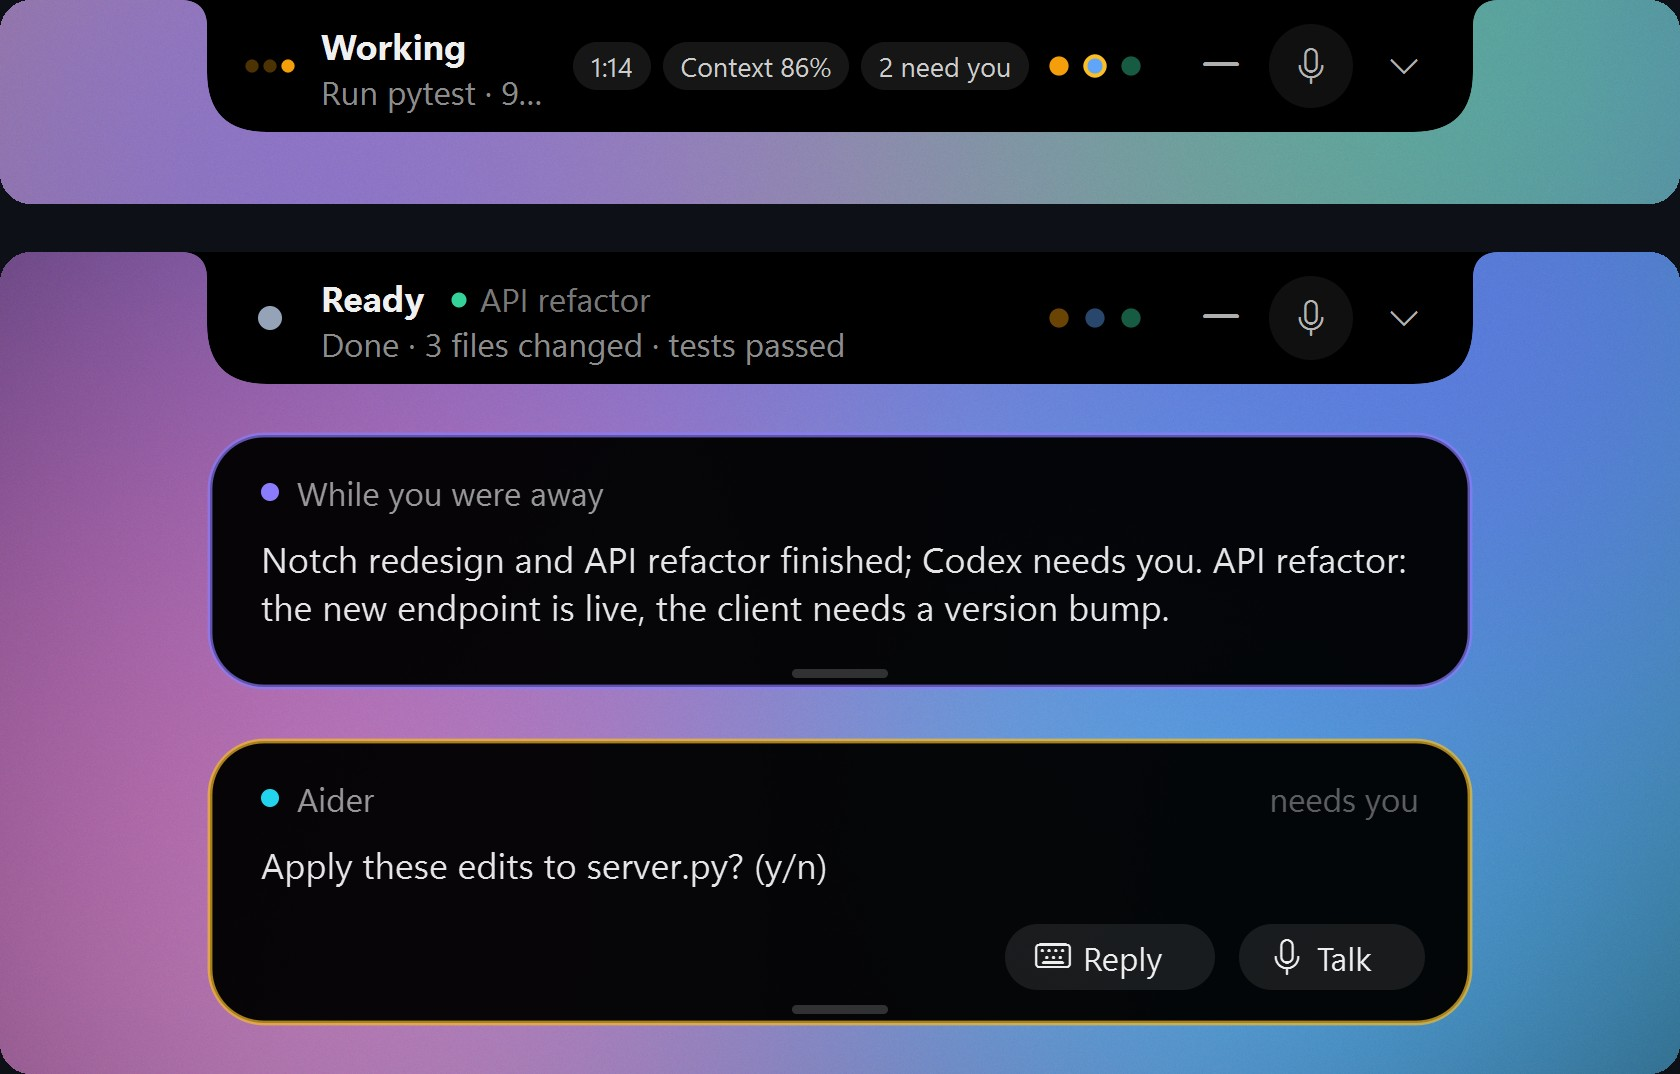
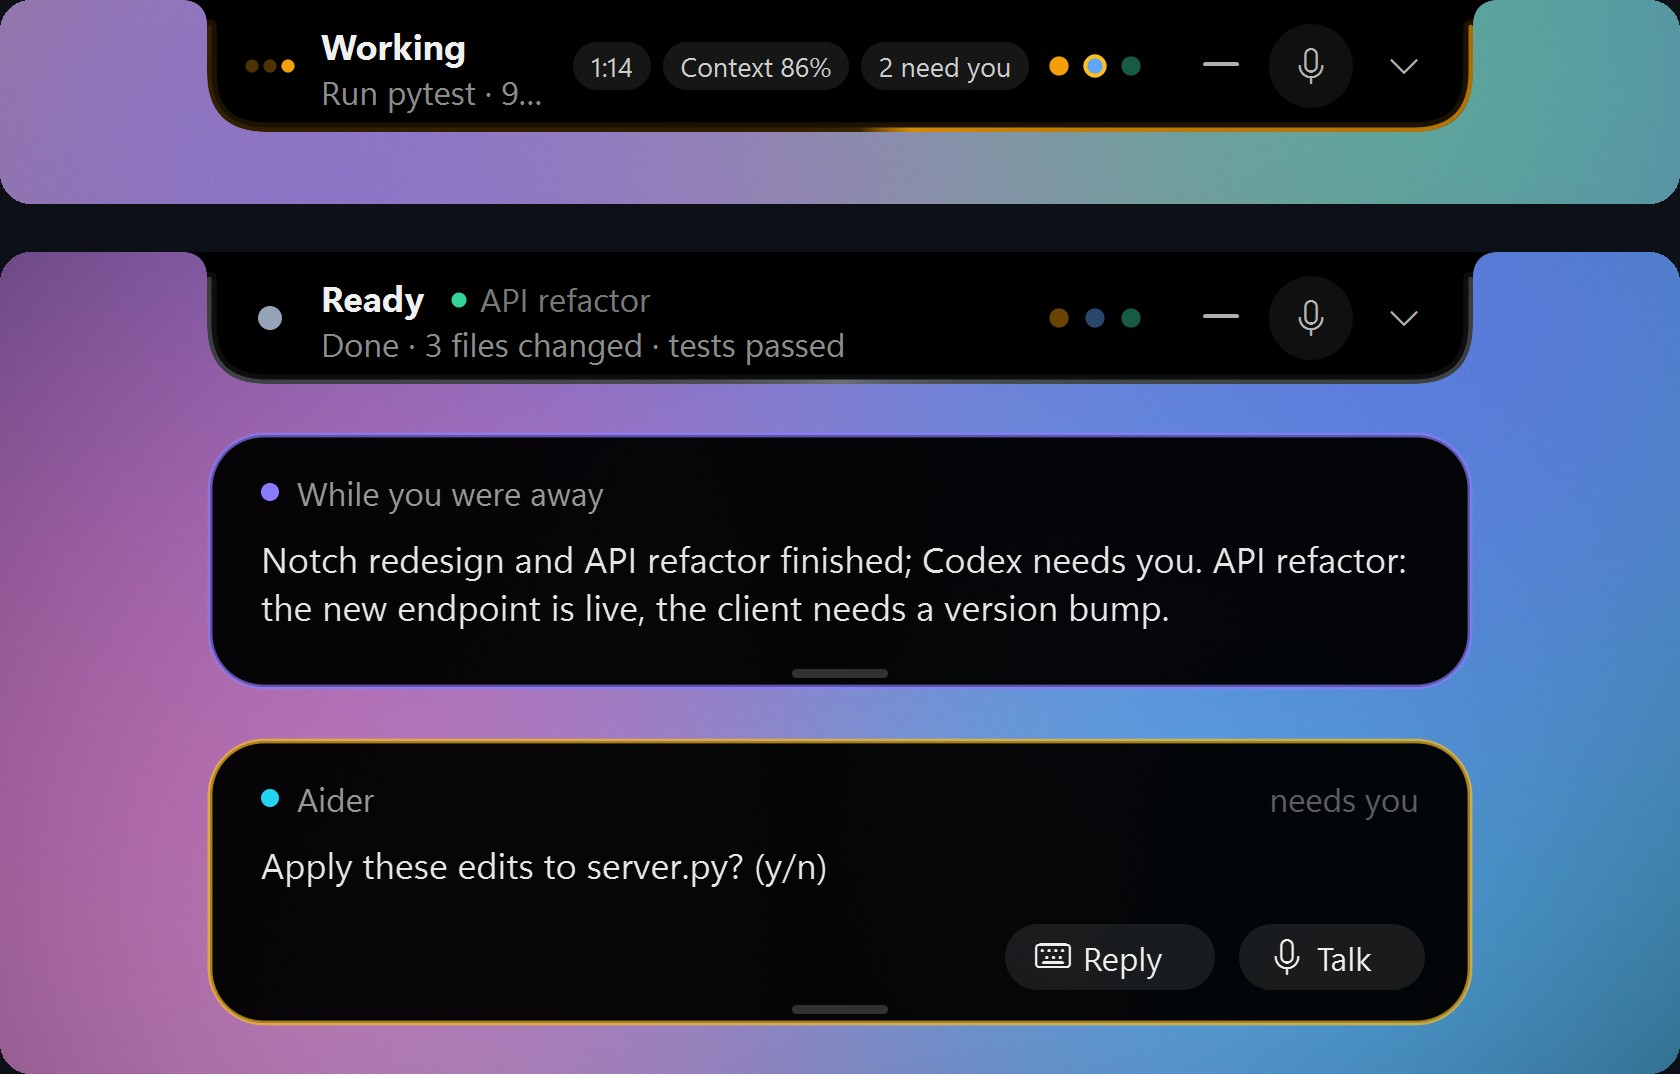
Edge light while working (a slow comet in the thread's colour, 15 fps, only while visible) and when ready (a still silver rim)

Changed region(s): [[0.1238, 0.0307, 0.8667, 0.1229], [0.1238, 0.338, 0.8667, 0.3687], [0.8667, 0.0307, 0.8976, 0.0922]]

diff --git a/agent_voice/widget.py b/agent_voice/widget.py
@@ -867,12 +867,14 @@ class VoiceWidget(QWidget):
             self.setWindowOpacity(self._opacity)
         # Battery: 30 fps only while something moves. At rest, no redraws and a slower status poll.
         still = self._is_still(want)
+        gliding = still and self._glow_moving()  # at rest otherwise: the working light alone, at 15 fps
         self.poller.interval = 0.6 if still else 0.12
-        if self.frame.interval() != (250 if still else 33):
-            self.frame.setInterval(250 if still else 33)
-        if still and self._painted_still:
+        interval = 66 if gliding else 250 if still else 33
+        if self.frame.interval() != interval:
+            self.frame.setInterval(interval)
+        if still and not gliding and self._painted_still:
             return
-        self._painted_still = still
+        self._painted_still = still and not gliding
         self.update()
 
     def _is_still(self, opacity_target: float) -> bool:
@@ -1187,19 +1189,41 @@ class VoiceWidget(QWidget):
         return path
 
     def _edge_live(self) -> float:
-        """How strongly the edge light shows: only while the mic or the voice is live."""
-        return {"speaking": 1.0, "recording": 1.0, "waiting": 0.75, "transcribing": 0.6}.get(self.phase, 0.0)
+        """How strongly the edge light shows: bright while the voice or the mic is live, soft while an agent
+        works (in its conversation's colour), and a faint, still rim when ready."""
+        live = {"speaking": 1.0, "recording": 1.0, "waiting": 0.75, "transcribing": 0.6}.get(self.phase, 0.0)
+        if live:
+            return live
+        if self._activity():
+            return 0.85
+        return 0.5 if self.phase == "idle" else 0.0
+
+    def _glow_moving(self) -> bool:
+        """The working light glides around the edge: worth a gentle 15 fps, but only while it can be seen."""
+        return bool(self._activity()) and self._reveal > 0.3 and self.isVisible()
 
     def _paint_edge_light(self, p: QPainter, w: float, h: float) -> None:
-        """A thin band of light running around the island while it's live; nothing at rest."""
+        """A thin band of light around the island: running while live, gliding while working, still when ready."""
         live = self._edge_live() * _smooth((self._reveal - 0.3) / 0.6)
         if live < 0.02:
             return
         t = time.time() - self.t0
-        grad = QConicalGradient(QPointF(w / 2, h * 0.4), -t * (40 + 70 * self.energy))
-        # One colour (the phase's); the motion comes from a brighter stretch travelling around.
-        for pos, alpha in ((0.0, 255), (0.25, 120), (0.5, 70), (0.75, 120), (1.0, 255)):
-            c = QColor(self.accent)
+        act = self._activity() if self.phase == "idle" else None
+        # Ready: a cool silver rim, like light on a polished edge; otherwise the state's (or thread's) colour.
+        color = QColor(act["color"]) if act else QColor("#CBD5E1") if self.phase == "idle" else QColor(self.accent)
+        if self.phase != "idle":
+            angle = -t * (40 + 70 * self.energy)  # live: the light runs around with the voice
+        elif act:
+            angle = -t * 30  # working: a slow glide
+        else:
+            angle = 270.0  # ready: still, brightest along the bottom edge
+        grad = QConicalGradient(QPointF(w / 2, h * 0.4), angle)
+        # One colour; the motion comes from a brighter stretch travelling around. Working: a single comet
+        # (a bright head, a long fading tail) rather than two highlights, calmer than a live voice.
+        stops = (((0.0, 255), (0.08, 230), (0.35, 70), (0.7, 25), (0.92, 40), (1.0, 255)) if act
+                 else ((0.0, 255), (0.25, 120), (0.5, 70), (0.75, 120), (1.0, 255)))
+        for pos, alpha in stops:
+            c = QColor(color)
             c.setAlpha(int(alpha * live))
             grad.setColorAt(pos, c)
         e, r, k = NOTCH_EAR, min(NOTCH_RADIUS, h / 2), 0.75
@@ -1215,7 +1239,7 @@ class VoiceWidget(QWidget):
             edge = self._body_path(w, h)  # floating: all the way round
         p.setBrush(Qt.NoBrush)
         p.setClipPath(self._body_path(w, h))
-        bloom = QColor(self.accent)
+        bloom = QColor(color)
         bloom.setAlpha(int((30 + 40 * self.energy) * live))
         p.setPen(_round_pen(bloom, 5.0))  # a soft inner bloom, clipped to the island
         p.drawPath(edge)

diff --git a/AGENTS.md b/AGENTS.md
@@ -73,7 +73,7 @@ The daemon and widget run as `pythonw` in the background. **Code changes need a 
 7. **The widget is a view.** State lives in the daemon (`/status`). The widget only keeps its own position/visibility (`~/.agent-voice/widget.json`; not `state.json`, which the daemon rewrites wholesale).
 8. **Nothing leaves the machine.** No network calls except model downloads (Piper voices, Whisper weights, the wake-word model) on first use, and the optional release check (`update_check`). `apps.py` reads only the listed apps' notifications (the filter is in the SQL query) and is off by default.
 9. **Battery first.** ONNX Runtime sessions we create never busy-wait (`tts._quiet_session`: `allow_spinning=0`, 2 threads; the default spinning cost ~20x the CPU per sentence). Feed models whole chunks, not 30 ms blocks. The wake word runs a volume gate first and the keyword spotter only on finished utterances.
-10. **The widget doesn't redraw at rest.** `_tick` drops to 4 Hz and skips `update()` once `_is_still()`; status polling slows to 0.6 s. Any new animation must be covered by `_is_still()`, or the widget redraws at 30 fps forever. At rest the widget long-polls `/status?wait=<tag>` (one request per change, or every 20 s): keep `server.status_tag` blind to values that change without anything visible changing (mic level, seconds).
+10. **The widget doesn't redraw at rest.** `_tick` drops to 4 Hz and skips `update()` once `_is_still()` (the one exception: the working light glides at 15 fps while the notch is down, `_glow_moving()`; the ready rim is still); status polling slows to 0.6 s. Any new animation must be covered by `_is_still()`, or the widget redraws at 30 fps forever. At rest the widget long-polls `/status?wait=<tag>` (one request per change, or every 20 s): keep `server.status_tag` blind to values that change without anything visible changing (mic level, seconds).
 
 ## Adding an agent integration
 
